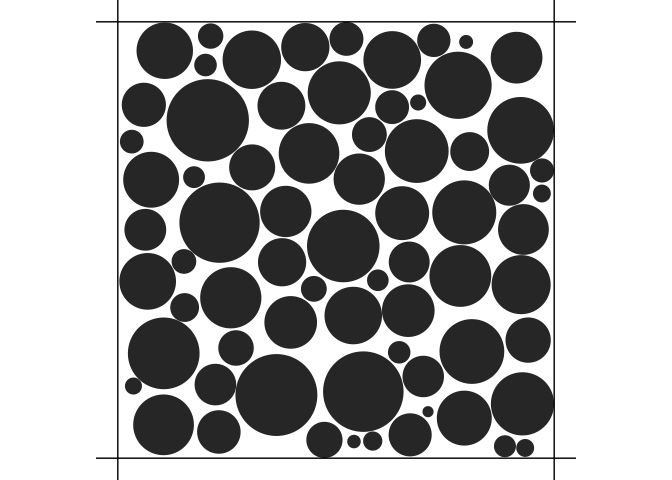
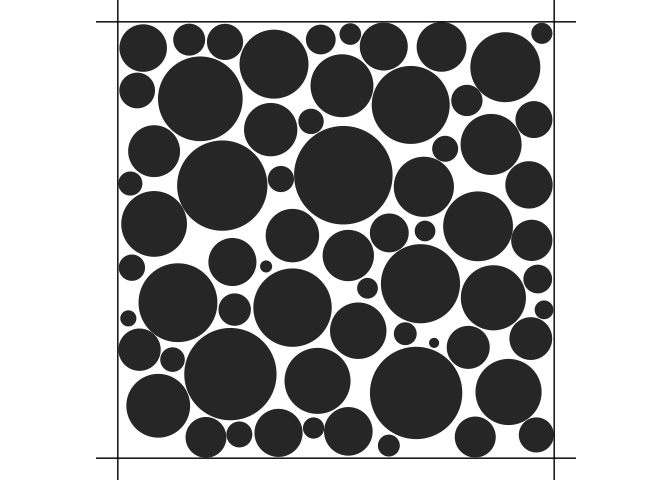
Better setup of bundle geometry.

Changed region(s): [[0.1562, 0.0312, 0.8438, 0.9688]]

diff --git a/README.md b/README.md
@@ -14,11 +14,56 @@ coverage](https://codecov.io/gh/astamm/midi/branch/main/graph/badge.svg)](https:
 status](https://www.r-pkg.org/badges/version/midi)](https://CRAN.R-project.org/package=midi)
 <!-- badges: end -->
 
-The goal of midi is to provide tools for simulating MR signal
-attenuations induced by diffusion of water in biological tissues. The
-package is based on the theory of diffusion MRI and provides functions
-for simulating the signal attenuation in pulse-gradient spin-echo MR
-sequences for different tissue models.
+The Human brain can be seen as grey matter and white matter. The former
+is composed of cell bodies and dendrites, while the latter is composed
+of axons and glial cells. Neurons are made up of a cell body, dendrites,
+and an axon. The cell body contains the nucleus and other organelles,
+and the dendrites receive electrical signals from other neurons. The
+axon is a long, thin projection that carries signals away from the cell
+body to other neurons. The axons are surrounded by a myelin sheath,
+which is a fatty substance that insulates the axons and speeds up the
+transmission of electrical signals. The myelin sheath is not continuous,
+but rather has small gaps called nodes of Ranvier. The axons are bundled
+together in what is called a fiber bundle. The glial cells are
+responsible for maintaining the homeostasis of the brain and providing
+support and protection for the axons.
+
+The scale of these tissues (of the order of micrometers) makes them
+invisible to the naked eye. However, a robust reconstruction of the
+brain microstructure is key to understanding brain function and
+dysfunction. This is where diffusion magnetic resonance imaging (MRI)
+comes in. Water molcules are in constant random motion due to their
+thermal energy and our body is made of 80% of water. The diffusion of
+water molecules in the brain is restricted by the cell membranes and
+myelin sheaths, and is faster along the axons than perpendicular to
+them. This anisotropic diffusion can be measured using diffusion MRI.
+Diffusion MRI is a non-invasive imaging technique which makes the
+magnetization of protons sensitive to the diffusion by applying
+so-called magnetic field diffusion gradients. The signal attenuation in
+diffusion MRI is then used to infer the microstructure of the brain.
+
+An enormous amount of research has been done to understand the
+relationship between the signal attenuation and the microstructure of
+the brain and many parametric models have been devised to describe this
+relationship. However, the spatial resolution of diffusion MRI is
+limited by the voxel size, which is typically in the order of
+millimeters, therefore containing many different tissue types. In
+addition, depending on the experimental conditions (number, duration and
+strength of the gradients and time between two consecutive gradients),
+the MR signal might not be sensitive to all tissue types in the voxel.
+The [**midi**](https://astamm.github.io/midi/) package is meant to list
+the tissue models that have been proposed in the literature and to
+provide tools to simulate the MR signal attenuation predicted by these
+models under different experimental conditions.
+
+The package is then used in an eponymous Shiny web application which
+provides a user-friendly interface for the package and allows to
+interactively visualize the MR signal attenuation induced by the
+different tissue models and design experimental conditions to optimize
+the sensitivity to specific tissue parameters. The Shiny web application
+can be launched with the `midi::run_app()` function for convenience but
+can be directly accessed at the following URL:
+<https://midi-pastrami.apps.math.cnrs.fr/>.
 
 ## Installation
 
@@ -40,20 +85,16 @@ cylinderBundleComp <- CylinderBundleCompartment$new(
   axis = c(0, 0, 1),
   radius = 1e-5,
   diffusivity = 2.0e-9,
-  axial_diffusivity = 2.0e-9,
-  radial_diffusivity = 2.0e-10,
   cylinder_density = 0.5,
-  radial_model = "soderman",
-  voxel_size = c(1, 1, 1) * 1e-3
+  radial_model = "soderman"
 )
-#> ℹ Number of cylinders: 1592
 cylinderBundleComp$get_signal(
   small_delta = 0.03,
   big_delta = 0.03,
   G = 0.040,
   direction = c(0, 0, 1)
 )
-#> [1] 0.01619326
+#> [1] 0.01616863
 ```
 
 You can also simulate and visualize cylinder bundles:
